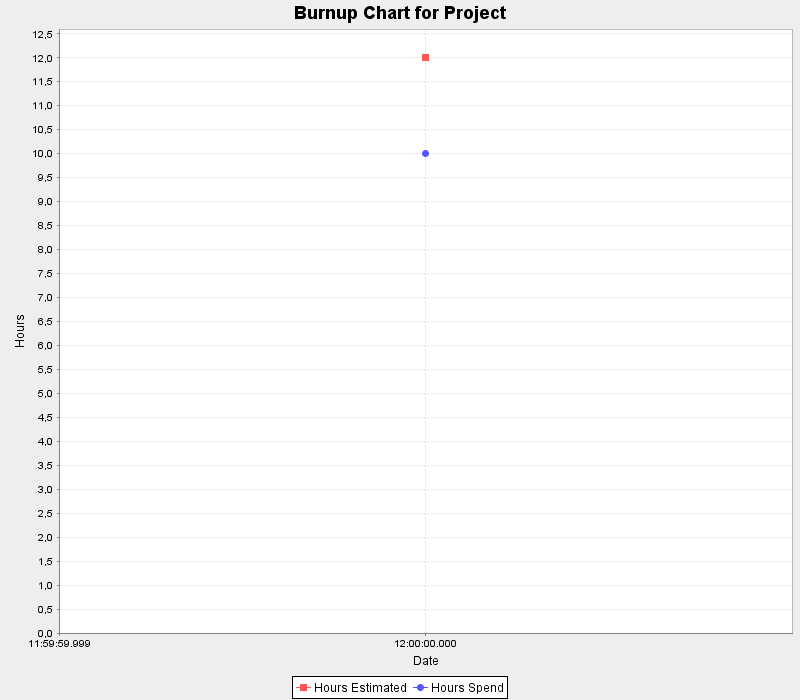
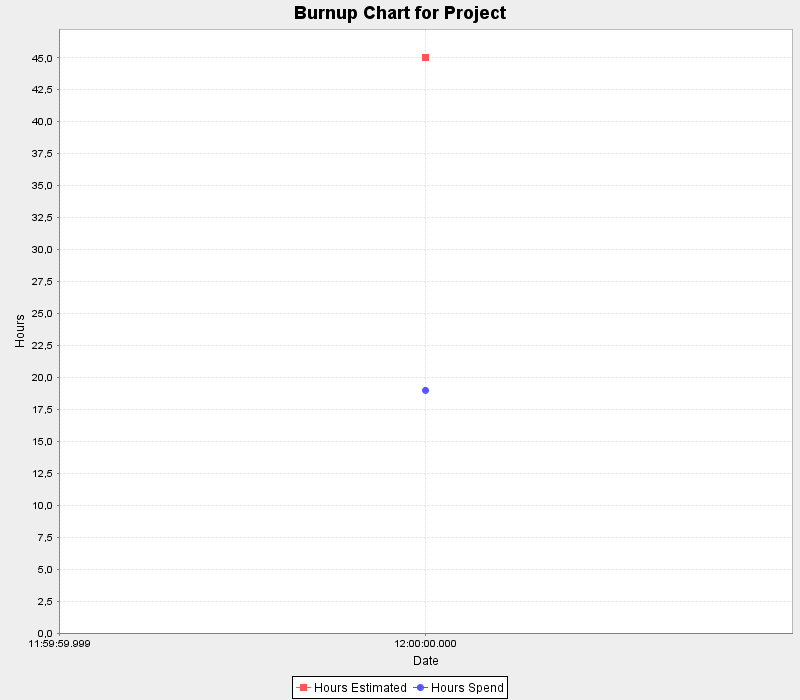
have run some tests
git-svn-id: https://svn.code.sf.net/p/sdmlib/code-0/trunk@423 2b52b8e8-071c-4d2f-a868-389f512d1cbb

diff --git a/doc/objectData.html b/doc/objectData.html
@@ -1,8 +1,10 @@
 <html>
 <body>
-<a name='KE.K1'><p>id: <a href='#KE.K1'>KE.K1</a> <br/>class: org.sdmlib.scenarios.KanbanEntry <br/>prop: {"name":"Project","phase":"active","lastDeveloper":"zuendorf","hoursRemaining":2,"hoursSpend":10,"subentries":[{"id":"KE.K2"},{"id":"KE.K7"}],"logEntries":[{"id":"KE.L6"},{"id":"KE.L11"},{"id":"KE.L12"}]} <br/></p></a>
+<a name='KE.K1'><p>id: <a href='#KE.K1'>KE.K1</a> <br/>class: org.sdmlib.scenarios.KanbanEntry <br/>prop: {"name":"Project","phase":"active","lastDeveloper":"zuendorf","hoursRemaining":26,"hoursSpend":19,"subentries":[{"id":"KE.K2"},{"id":"KE.K7"},{"id":"KE.K13"},{"id":"KE.K17"}],"logEntries":[{"id":"KE.L6"},{"id":"KE.L11"},{"id":"KE.L12"},{"id":"KE.L16"},{"id":"KE.L20"}]} <br/></p></a>
 <a name='KE.K2'><p>id: <a href='#KE.K2'>KE.K2</a> <br/>class: org.sdmlib.scenarios.KanbanEntry <br/>prop: {"name":"GroupAccountRuleRecognition","phase":"modeling","lastDeveloper":"zuendorf","hoursRemaining":2,"hoursSpend":8,"parent":{"id":"KE.K1"},"logEntries":[{"id":"KE.L3"},{"id":"KE.L4"},{"id":"KE.L5"}]} <br/></p></a>
 <a name='KE.K7'><p>id: <a href='#KE.K7'>KE.K7</a> <br/>class: org.sdmlib.scenarios.KanbanEntry <br/>prop: {"name":"GroupAccountCodegen","phase":"done","lastDeveloper":"zuendorf","hoursSpend":2,"parent":{"id":"KE.K1"},"logEntries":[{"id":"KE.L8"},{"id":"KE.L9"},{"id":"KE.L10"}]} <br/></p></a>
+<a name='KE.K13'><p>id: <a href='#KE.K13'>KE.K13</a> <br/>class: org.sdmlib.scenarios.KanbanEntry <br/>prop: {"name":"EMFStudyRightClasses","phase":"modeling","lastDeveloper":"zuendorf","hoursSpend":8,"parent":{"id":"KE.K1"},"logEntries":[{"id":"KE.L14"},{"id":"KE.L15"}]} <br/></p></a>
+<a name='KE.K17'><p>id: <a href='#KE.K17'>KE.K17</a> <br/>class: org.sdmlib.scenarios.KanbanEntry <br/>prop: {"name":"LoadEcoreCreateClassModel","phase":"modeling","lastDeveloper":"zuendorf","hoursRemaining":24,"hoursSpend":1,"parent":{"id":"KE.K1"},"logEntries":[{"id":"KE.L18"},{"id":"KE.L19"}]} <br/></p></a>
 <a name='KE.L3'><p>id: <a href='#KE.L3'>KE.L3</a> <br/>class: org.sdmlib.scenarios.LogEntry <br/>prop: {"date":"03.07.2013 12:00:00","kanbanEntry":{"id":"KE.K2"},"developer":"zuendorf","phase":"backlog"} <br/></p></a>
 <a name='KE.L4'><p>id: <a href='#KE.L4'>KE.L4</a> <br/>class: org.sdmlib.scenarios.LogEntry <br/>prop: {"date":"04.04.2012 00:26:59","hoursRemainingInTotal":2,"kanbanEntry":{"id":"KE.K2"},"developer":"zuendorf","phase":"modeling","comment":"Achieved: Start situation: classes have been generated. Now create some example object structure"} <br/></p></a>
 <a name='KE.L5'><p>id: <a href='#KE.L5'>KE.L5</a> <br/>class: org.sdmlib.scenarios.LogEntry <br/>prop: {"date":"15.04.2012 17:18:42","hoursSpend":8,"hoursRemainingInTotal":2,"kanbanEntry":{"id":"KE.K2"},"developer":"zuendorf","phase":"modeling","comment":"Achieved: We will call updateBalances() to compute the correct balances.n"} <br/></p></a>
@@ -12,6 +14,12 @@
 <a name='KE.L10'><p>id: <a href='#KE.L10'>KE.L10</a> <br/>class: org.sdmlib.scenarios.LogEntry <br/>prop: {"date":"24.05.2012 00:16:18","hoursSpend":1,"kanbanEntry":{"id":"KE.K7"},"developer":"zuendorf","phase":"done","comment":"Achieved: Resolved Bug: creatorcreator class is no longer growing on each run. "} <br/></p></a>
 <a name='KE.L11'><p>id: <a href='#KE.L11'>KE.L11</a> <br/>class: org.sdmlib.scenarios.LogEntry <br/>prop: {"date":"03.07.2013 12:00:00","hoursSpend":2,"hoursRemainingInTotal":4,"kanbanEntry":{"id":"KE.K1"},"developer":"zuendorf","phase":"active","comment":"GroupAccountRuleRecognition: null"} <br/></p></a>
 <a name='KE.L12'><p>id: <a href='#KE.L12'>KE.L12</a> <br/>class: org.sdmlib.scenarios.LogEntry <br/>prop: {"date":"03.07.2013 12:00:00","hoursRemainingInTotal":2,"kanbanEntry":{"id":"KE.K1"},"developer":"zuendorf","phase":"active","comment":"GroupAccountRuleRecognition: null"} <br/></p></a>
+<a name='KE.L14'><p>id: <a href='#KE.L14'>KE.L14</a> <br/>class: org.sdmlib.scenarios.LogEntry <br/>prop: {"date":"03.07.2013 12:00:00","kanbanEntry":{"id":"KE.K13"},"developer":"zuendorf","phase":"backlog"} <br/></p></a>
+<a name='KE.L15'><p>id: <a href='#KE.L15'>KE.L15</a> <br/>class: org.sdmlib.scenarios.LogEntry <br/>prop: {"date":"08.02.2013 14:53:42","hoursSpend":8,"kanbanEntry":{"id":"KE.K13"},"developer":"zuendorf","phase":"modeling","comment":"Achieved: We build some example classes and then turn them into an Ecore model "} <br/></p></a>
+<a name='KE.L16'><p>id: <a href='#KE.L16'>KE.L16</a> <br/>class: org.sdmlib.scenarios.LogEntry <br/>prop: {"date":"03.07.2013 12:00:00","hoursSpend":8,"hoursRemainingInTotal":2,"kanbanEntry":{"id":"KE.K1"},"developer":"zuendorf","phase":"active","comment":"GroupAccountRuleRecognition: null"} <br/></p></a>
+<a name='KE.L18'><p>id: <a href='#KE.L18'>KE.L18</a> <br/>class: org.sdmlib.scenarios.LogEntry <br/>prop: {"date":"03.07.2013 12:00:00","kanbanEntry":{"id":"KE.K17"},"developer":"zuendorf","phase":"backlog"} <br/></p></a>
+<a name='KE.L19'><p>id: <a href='#KE.L19'>KE.L19</a> <br/>class: org.sdmlib.scenarios.LogEntry <br/>prop: {"date":"28.06.2013 12:56:42","hoursSpend":1,"hoursRemainingInTotal":24,"kanbanEntry":{"id":"KE.K17"},"developer":"zuendorf","phase":"modeling","comment":"Achieved: Reading ecore file and generating sdmlib classModel "} <br/></p></a>
+<a name='KE.L20'><p>id: <a href='#KE.L20'>KE.L20</a> <br/>class: org.sdmlib.scenarios.LogEntry <br/>prop: {"date":"03.07.2013 12:00:00","hoursSpend":1,"hoursRemainingInTotal":26,"kanbanEntry":{"id":"KE.K1"},"developer":"zuendorf","phase":"active","comment":"GroupAccountRuleRecognition: null"} <br/></p></a>
 </body>
 </html>
 

diff --git a/doc/Projectkanban.html b/doc/Projectkanban.html
@@ -4,8 +4,8 @@
 <tr> <th>active</th> <th>backlog</th> <th>modeling</th> <th>implementation</th> <th>done</th> </tr>
 <tr> <td valign='top'><table border ='0'><tr><td><table border='1' rules='none' bgcolor='#fafad2'><tr><td><a href='Projectkanban.html'>Project</a></td></tr>
 <tr><td>developer = zuendorf</td></tr>
-<tr><td>hours spend = 10.0</td></tr>
-<tr><td>hours remaining = 2.0</td></tr>
+<tr><td>hours spend = 19.0</td></tr>
+<tr><td>hours remaining = 26.0</td></tr>
 <tr><td><a href='ProjectBurnupChart.png'>burnup</a></td></tr>
 <tr><td><a href='ProjectTimeLine.html'>time line</a></td></tr>
 </table><tr><td>
@@ -18,6 +18,22 @@
 <tr><td>hours remaining = 2.0</td></tr>
 <tr><td><a href='GroupAccountRuleRecognitionBurnupChart.png'>burnup</a></td></tr>
 <tr><td><a href='GroupAccountRuleRecognitionTimeLine.html'>time line</a></td></tr>
+</table><tr><td>
+<tr><td><table border='1' rules='none' bgcolor='#fafad2'><tr><td><a href='EMFStudyRightClasses.html'>EMFStudyRightClasses</a></td></tr>
+<tr><td><a href='Projectkanban.html'>Project</a></td></tr>
+<tr><td>developer = zuendorf</td></tr>
+<tr><td>hours spend = 8.0</td></tr>
+<tr><td>hours remaining = 0.0</td></tr>
+<tr><td><a href='EMFStudyRightClassesBurnupChart.png'>burnup</a></td></tr>
+<tr><td><a href='EMFStudyRightClassesTimeLine.html'>time line</a></td></tr>
+</table><tr><td>
+<tr><td><table border='1' rules='none' bgcolor='#fafad2'><tr><td><a href='LoadEcoreCreateClassModel.html'>LoadEcoreCreateClassModel</a></td></tr>
+<tr><td><a href='Projectkanban.html'>Project</a></td></tr>
+<tr><td>developer = zuendorf</td></tr>
+<tr><td>hours spend = 1.0</td></tr>
+<tr><td>hours remaining = 24.0</td></tr>
+<tr><td><a href='LoadEcoreCreateClassModelBurnupChart.png'>burnup</a></td></tr>
+<tr><td><a href='LoadEcoreCreateClassModelTimeLine.html'>time line</a></td></tr>
 </table><tr><td>
 </table></td>
  <td valign='top'><table border ='0'></table></td>

diff --git a/doc/ProjectTimeLine.html b/doc/ProjectTimeLine.html
@@ -3,5 +3,7 @@
 <p>Time line for Project</p><p>03.07.2013 12:00:00 zuendorf hours spend: 8.0 hours remaining: 2.0 GroupAccountRuleRecognition: null</p>
 <p>03.07.2013 12:00:00 zuendorf hours spend: 2.0 hours remaining: 4.0 GroupAccountRuleRecognition: null</p>
 <p>03.07.2013 12:00:00 zuendorf hours spend: 0.0 hours remaining: 2.0 GroupAccountRuleRecognition: null</p>
+<p>03.07.2013 12:00:00 zuendorf hours spend: 8.0 hours remaining: 2.0 GroupAccountRuleRecognition: null</p>
+<p>03.07.2013 12:00:00 zuendorf hours spend: 1.0 hours remaining: 26.0 GroupAccountRuleRecognition: null</p>
 </body>
 </html>

diff --git a/doc/refs.html b/doc/refs.html
@@ -2,8 +2,10 @@
 <meta http-equiv="X-UA-Compatible" content="IE=9">
 <body>
 <a href="Projectkanban.html" target="Main">Projectkanban</a><br>
- <br><a href="GroupAccountCodegen.html" target="Main">GroupAccountCodegen</a><br>
+ <br><a href="EMFStudyRightClasses.html" target="Main">EMFStudyRightClasses</a><br>
+ <a href="GroupAccountCodegen.html" target="Main">GroupAccountCodegen</a><br>
  <a href="GroupAccountRuleRecognition.html" target="Main">GroupAccountRuleRecognition</a><br>
+ <a href="LoadEcoreCreateClassModel.html" target="Main">LoadEcoreCreateClassModel</a><br>
  
 </body>
 </html>
